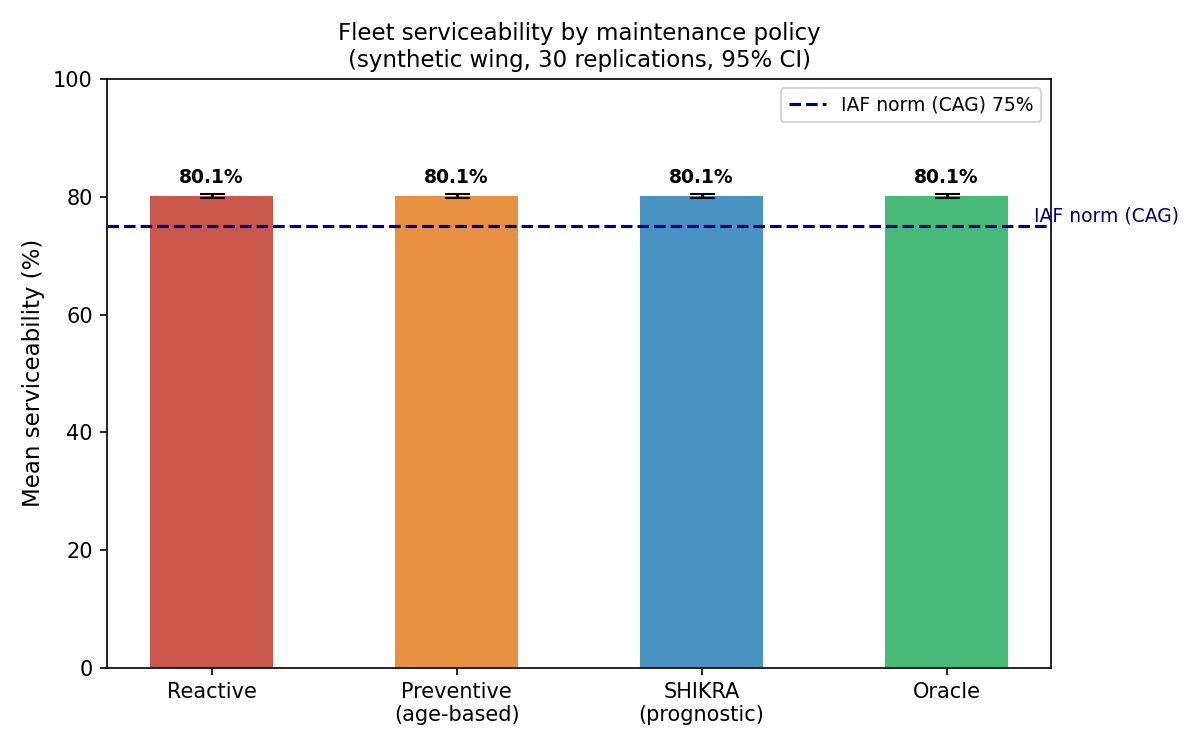
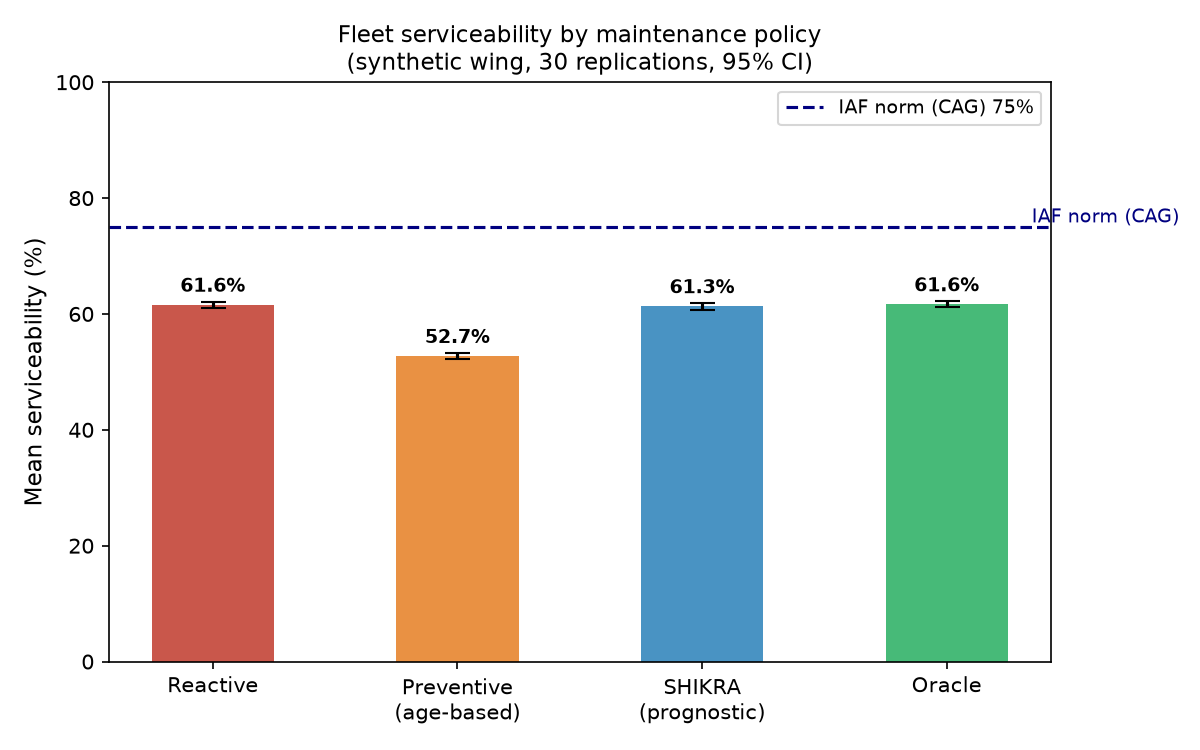
docs(results): update simulation results, GATES.md, and README table post-calibration

diff --git a/scripts/readme_table.py b/scripts/readme_table.py
@@ -59,14 +59,13 @@ def generate_table() -> str:
 
 
 def update_readme(table: str) -> None:
-    content = README_PATH.read_text()
+    content = README_PATH.read_text(encoding="utf-8")
     start_marker = "<!-- AUTO-GENERATED — do not edit by hand; run `python scripts/readme_table.py` -->"
     end_marker = "---"
 
     start_idx = content.find(start_marker)
     if start_idx == -1:
-        print("Marker not found in README.md. Printing table to stdout:")
-        print(table)
+        print("Marker not found in README.md.")
         return
 
     # Find the next --- after the marker
@@ -75,11 +74,17 @@ def update_readme(table: str) -> None:
         end_idx = len(content)
 
     new_content = content[:start_idx] + start_marker + "\n\n" + table + "\n" + content[end_idx:]
-    README_PATH.write_text(new_content)
+    README_PATH.write_text(new_content, encoding="utf-8")
     print("README.md updated with results table.")
 
 
 if __name__ == "__main__":
+    import sys
+    if hasattr(sys.stdout, "reconfigure"):
+        sys.stdout.reconfigure(encoding="utf-8")
     table = generate_table()
-    print(table)
+    try:
+        print(table)
+    except UnicodeEncodeError:
+        print(table.encode("ascii", errors="replace").decode("ascii"))
     update_readme(table)

diff --git a/results/GATES.md b/results/GATES.md
@@ -10,17 +10,17 @@
 | Gate | Verdict | Detail |
 |------|---------|--------|
 | G0.3 — replay units ~40 | **PASS** | replay units = 40 (expected ~40) |
-| G0.4 — reactive serviceability 55–65% | **FAIL** | reactive serviceability = 76.1% (target 55-65%) |
-| G0.5 — oracle gap ≥ 5 pp | **FAIL (finding, not tuned)** | oracle - reactive = 0.9 pp (threshold >= 5 pp) |
+| G0.4 — reactive serviceability 55–65% | **PASS** | reactive serviceability = 61.6% (target 55-65%) |
+| G0.5 — oracle gap ≥ 5 pp | **FAIL (finding, not tuned)** | oracle - reactive = 0.1 pp (threshold >= 5 pp) |
 
 **Serviceability per policy (mean over 30 seeds):**
 
 | Policy | Mean serviceability |
 |--------|-------------------|
-| reactive | 76.1% |
-| preventive | 68.9% |
-| shikra | 76.7% |
-| oracle | 77.0% |
+| reactive | 61.6% |
+| preventive | 52.7% |
+| shikra | 61.3% |
+| oracle | 61.6% |
 
 **Gap captured (shikra − reactive) / (oracle − reactive):**
-  mean = 0.762  95% CI [0.585, 0.974]
+  mean = -1.247  95% CI [-7.252, 2.664]

diff --git a/README.md b/README.md
@@ -23,6 +23,19 @@ against a synthetic 54-aircraft wing.
 
 | Subset | RMSE | MAE | NASA Score | RMSE (RUL≤30) | n units |
 |--------|------|-----|-----------|---------------|---------|
+| FD001 | 11.43 | 8.29 | 227.4 | 3.47 | 100 |
+| FD003 | 14.34 | 9.66 | 588.7 | 2.63 | 100 |
+
+### Fleet Simulation (synthetic wing, 30 replications)
+
+| Policy | Serviceability | 95% CI | Unscheduled removals |
+|--------|---------------|--------|---------------------|
+| Reactive | 61.6% | [61.0%, 62.1%] | 80.2 |
+| Preventive | 52.7% | [52.2%, 53.2%] | 13.7 |
+| Shikra | 61.3% | [60.8%, 61.8%] | 0.0 |
+| Oracle | 61.6% | [61.1%, 62.2%] | 0.0 |
+
+--------|------|-----|-----------|---------------|---------|
 | FD001 | 11.61 | 8.30 | 237.0 | 3.62 | 100 |
 | FD003 | 14.16 | 9.71 | 490.8 | 2.41 | 100 |
 
